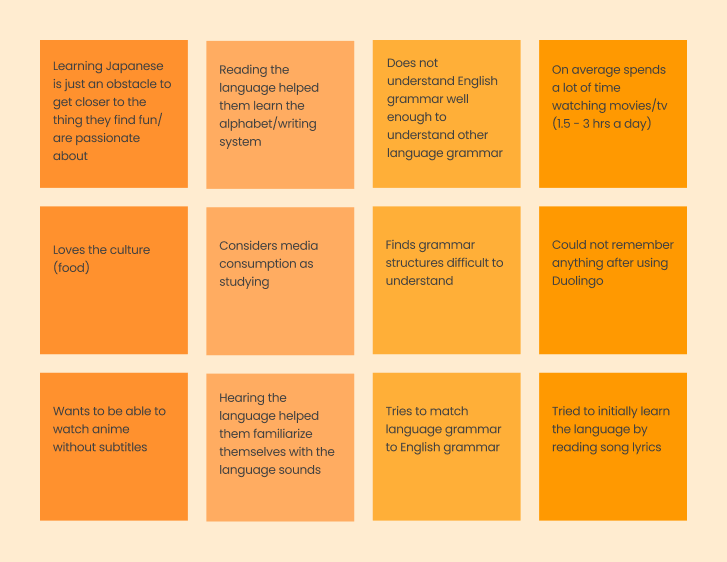
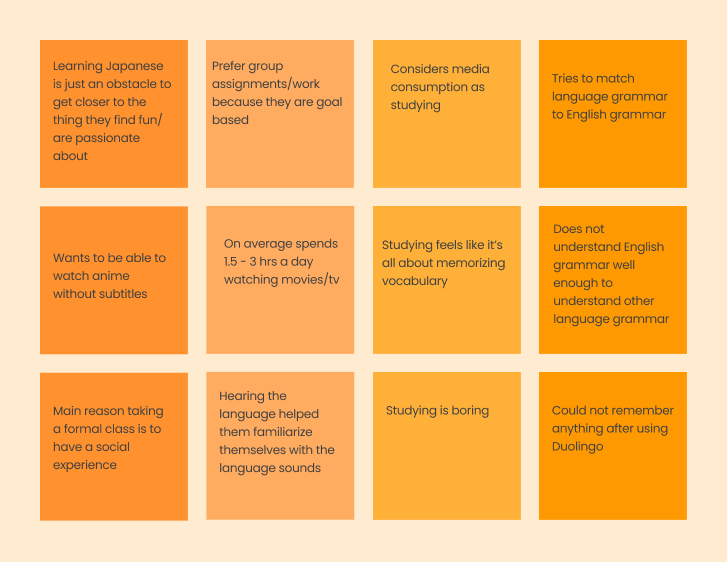
new images, conclusion,fix language

diff --git a/src/Components/Portfolio/LangApp.js b/src/Components/Portfolio/LangApp.js
@@ -67,7 +67,7 @@ const LangApp= () => {
               The data from these interviews revealed that students:
               <ul>
                 <li>Find studying boring</li>
-                <li>Like practicing with one other person or in small groups</li>
+                <li>Like the social aspect of working in small groups</li>
                 <li>Count consuming media in their target language towards their study time</li>
                 <li>Find learning the grammar of their target language difficult</li>
                 <li>Stop learning languages when they do not have any connection to the language</li>
@@ -192,9 +192,6 @@ const LangApp= () => {
               <li>All users thought the "Back" functionality was not clear because they didn't know what place in the experience "Back" refered to</li>
             </ul>
           </div>
-          <div className="lang-app-img">
-            <img src={LangAppFinal}  alt="wireframes"/>
-          </div>
         </div>
       </div>
       {/* Eight section: Final */}
@@ -202,18 +199,37 @@ const LangApp= () => {
         <div className="project-section">
           <div>
             <div className="flex-item"><h2>Final Iteration</h2></div>
-            I created a final iteration of my designs based on the results from the unmoderated testing. 
-            <div>Changes I made:
+            <div>I created a final iteration of my designs based on the results from the unmoderated testing.</div> 
+            <div>Some of the changes I made were the following:
             <ul>
-              <li>Added an Online feature to indicate that the user is online and available for Battles</li>
+              <li>Added an Online feature to indicate that the user is online and available to battle</li>
               <li>Added a countdown to tell users how long they have before the battle starts</li>
-              <li>Added a pop up prompting users to select the battle they want to challege their friends to instead or redirecting them to the Battles landing page</li>
+              <li>Removed the redirect to the Battles landing page from the friends page and implemented a pop up feature instead</li>
               <li>Added an Exit button to the Grammar practice experience as well as a progress bar to indicate how many practice questions a user has</li>
             </ul>
           </div>
           </div>
           <div className="lang-app-img">
             <img src={LangAppFinal}  alt="wireframes"/>
+          </div>
+        </div>
+      </div>
+      {/* Ninth section: Conclusion */}
+      <div className="project-content-inner">
+        <div className="project-section">
+          <div>
+            <div className="flex-item"><h2>Conclusion</h2></div>
+            <div>
+            It is not easy to learn a language, especially on your own. Most language apps available are repetitive, rarely cover grammar, and they do not offer meaningful interaction between users. An app that focuses on user interaction through fun and competitive games and focuses on making grammar more approachable keeps language learners motivated and excited to continue learning.  
+            </div> 
+            <h4 className="sub-cat">What I would do differently</h4>
+            <div>As this was my first UX project, I learned a lot. Some things I would do differently for an MVP:
+            <ul>
+              <li>I would prioritize one or two features to develop instead of many. Addressing too many user needs at one made me feel like the project lacked focus and direction.</li>
+              <li>I would focus on creating user flows to better understand how users will interact with a feature.</li>
+              <li>I would be more specific in creating a persona. Although Jordan is a good representative of the target audience, explicitly calling out students as the target audience would have helped me think of more ideas to better help this group of people. This app would have more value if it was developed as an extention of a textbook.</li>
+            </ul>
+            </div>
           </div>
         </div>
       </div>
